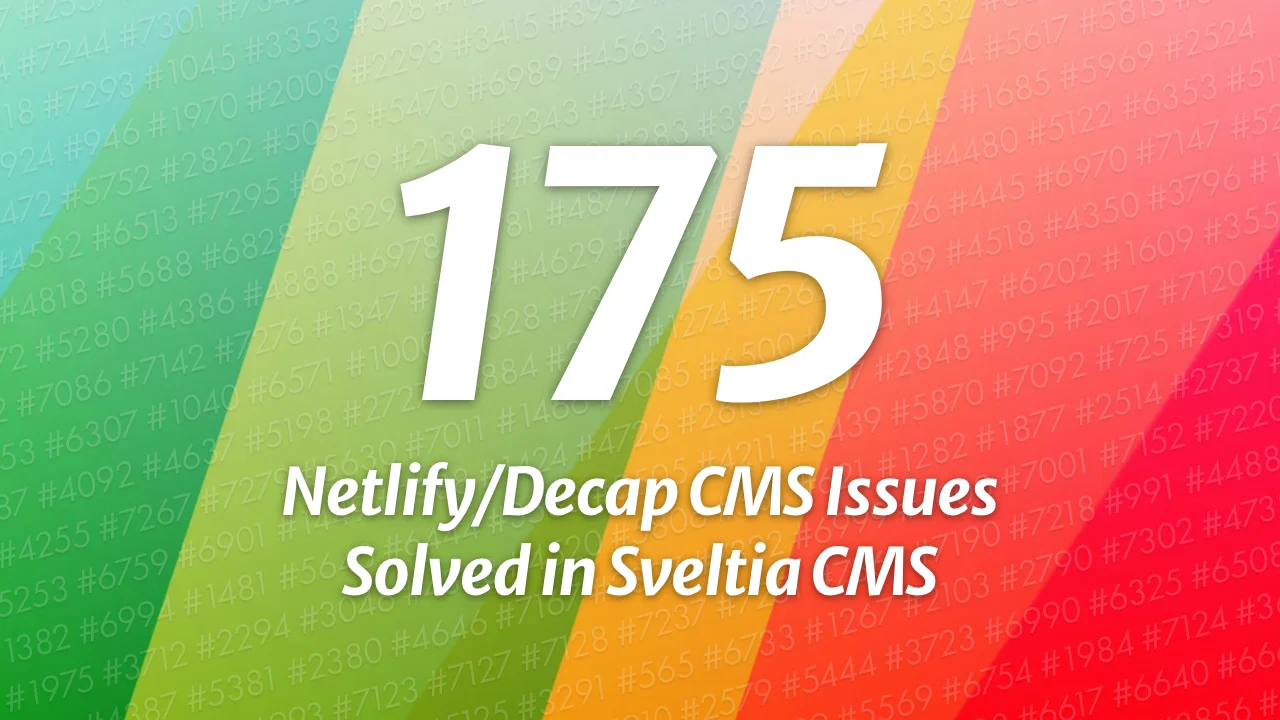
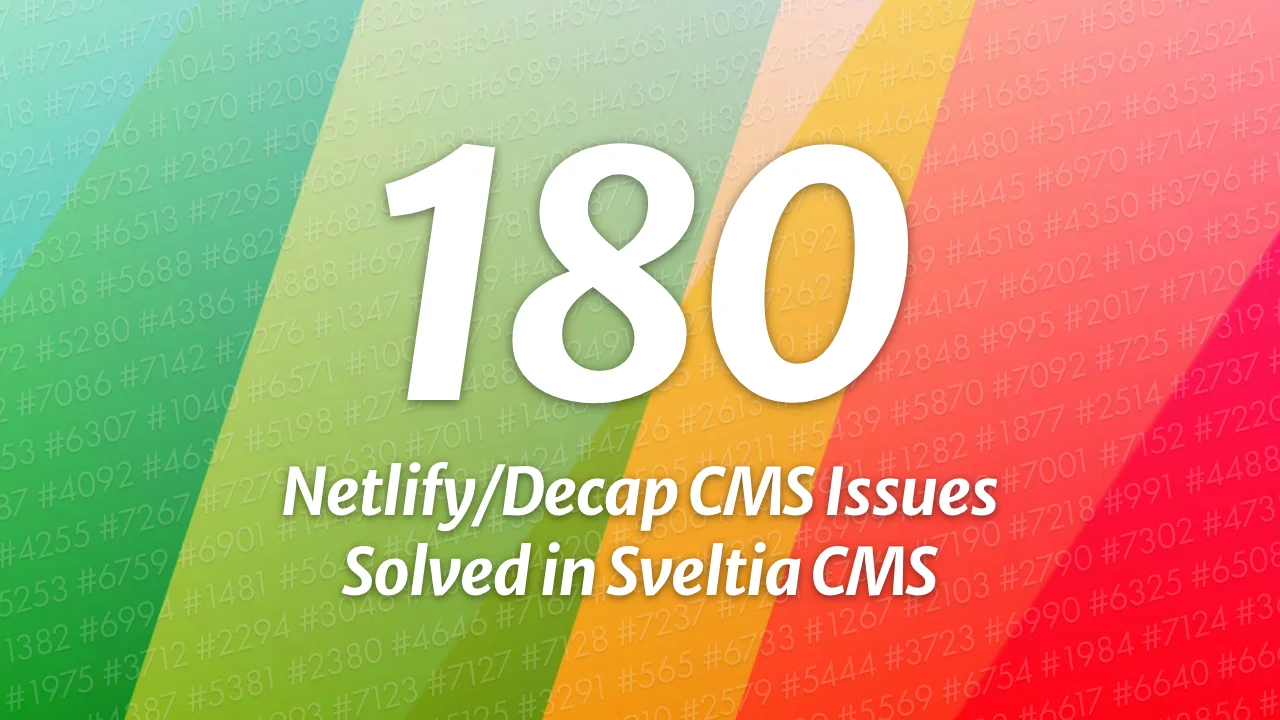
[skip ci] Update README.md

Changed region(s): [[0.2812, 0.1833, 0.7188, 0.5806]]

diff --git a/README.md b/README.md
@@ -117,7 +117,7 @@ While we fix reported bugs as quickly as possible, usually within 24 hours, our 
 - Ensuring substantial [compatibility with Netlify/Decap CMS](#compatibility)
 - Providing partial [compatibility with Static CMS](#compatibility-with-static-cms)
 - Tackling as many [Netlify/Decap CMS issues](https://github.com/decaporg/decap-cms/issues) as possible
-  - So far, 175+ of them, or 365+ including duplicates, have been effectively solved in Sveltia CMS
+  - So far, 180+ of them, or 370+ including duplicates, have been effectively solved in Sveltia CMS
   - Target: 200 by GA; 300, or 600 including duplicates, in the future (yes, you read that right)
   - Issues include everything from feature requests to bug reports and [issues closed as stale](https://github.com/decaporg/decap-cms/issues?q=is%3Aissue+%22Closing+as+stale%22) or without an effective solution, as well as [discussions](https://github.com/decaporg/decap-cms/discussions) and stalled [pull requests](https://github.com/decaporg/decap-cms/pulls)
   - Most of the bugs, including annoying crashes, are already solved
@@ -127,7 +127,7 @@ While we fix reported bugs as quickly as possible, usually within 24 hours, our 
 - Responding to requests from the maintainer’s clients
 - Making the code clean and maintainable
 
-![175 Netlify/Decap CMS Issues Solved in Sveltia CMS](https://raw.githubusercontent.com/sveltia/sveltia-cms/main/docs/headline-1.webp?20250226)<br>
+![180 Netlify/Decap CMS Issues Solved in Sveltia CMS](https://raw.githubusercontent.com/sveltia/sveltia-cms/main/docs/headline-1.webp?20250324)<br>
 
 ## Differentiators
 
@@ -208,6 +208,7 @@ We hope Netlify/Decap CMS users will be pleased and surprised by the numerous im
 
 - Some servers and frameworks are known to remove the trailing slash from the CMS URL (`/admin`) depending on the configuration. In such cases, the config file is loaded from a root-relative URL (`/admin/config.yml`) instead of a regular relative URL (`./config.yml` = `/config.yml`) that results in a 404 Not Found error.[^107]
 - Supports a [JSON configuration file](#providing-a-json-configuration-file) that can be generated for bulk or complex collections.[^60]
+- We keep our TypeScript type definitions for `CMS.init()` and other methods complete, accurate, up-to-date and annotated.[^190][^191][^192][^193] This makes it easier to provide a site configuration when [manually initializing](https://decapcms.org/docs/manual-initialization/) the CMS.
 
 ### Better backend support
 
@@ -529,7 +530,6 @@ These Netlify/Decap CMS features are not yet implemented in Sveltia CMS. We are 
 - [Custom widgets and custom editor components](https://decapcms.org/docs/custom-widgets/)
 - [Custom previews](https://decapcms.org/docs/customization/) ([#51](https://github.com/sveltia/sveltia-cms/issues/51))
 - [Event hooks](https://decapcms.org/docs/registering-events/) ([#167](https://github.com/sveltia/sveltia-cms/issues/167))
-- TypeScript support for `CMS.init()` and other methods ([#346](https://github.com/sveltia/sveltia-cms/issues/346))
 
 Due to the complexity, the following features will be added after the 1.0 release. Netlify/Decap CMS has a number of open issues with the collaboration and beta features — we want to implement them the right way.
 
@@ -1542,3 +1542,11 @@ This software is provided “as is” without any express or implied warranty. W
 [^188]: Netlify/Decap CMS [#7415](https://github.com/decaporg/decap-cms/issues/7415), [#7421](https://github.com/decaporg/decap-cms/issues/7421)
 
 [^189]: Netlify/Decap CMS [#7431](https://github.com/decaporg/decap-cms/issues/7431)
+
+[^190]: Netlify/Decap CMS [#4987](https://github.com/decaporg/decap-cms/issues/4987)
+
+[^191]: Netlify/Decap CMS [#5970](https://github.com/decaporg/decap-cms/issues/5970)
+
+[^192]: Netlify/Decap CMS [#6527](https://github.com/decaporg/decap-cms/issues/6527)
+
+[^193]: Netlify/Decap CMS [#6800](https://github.com/decaporg/decap-cms/issues/6800)
